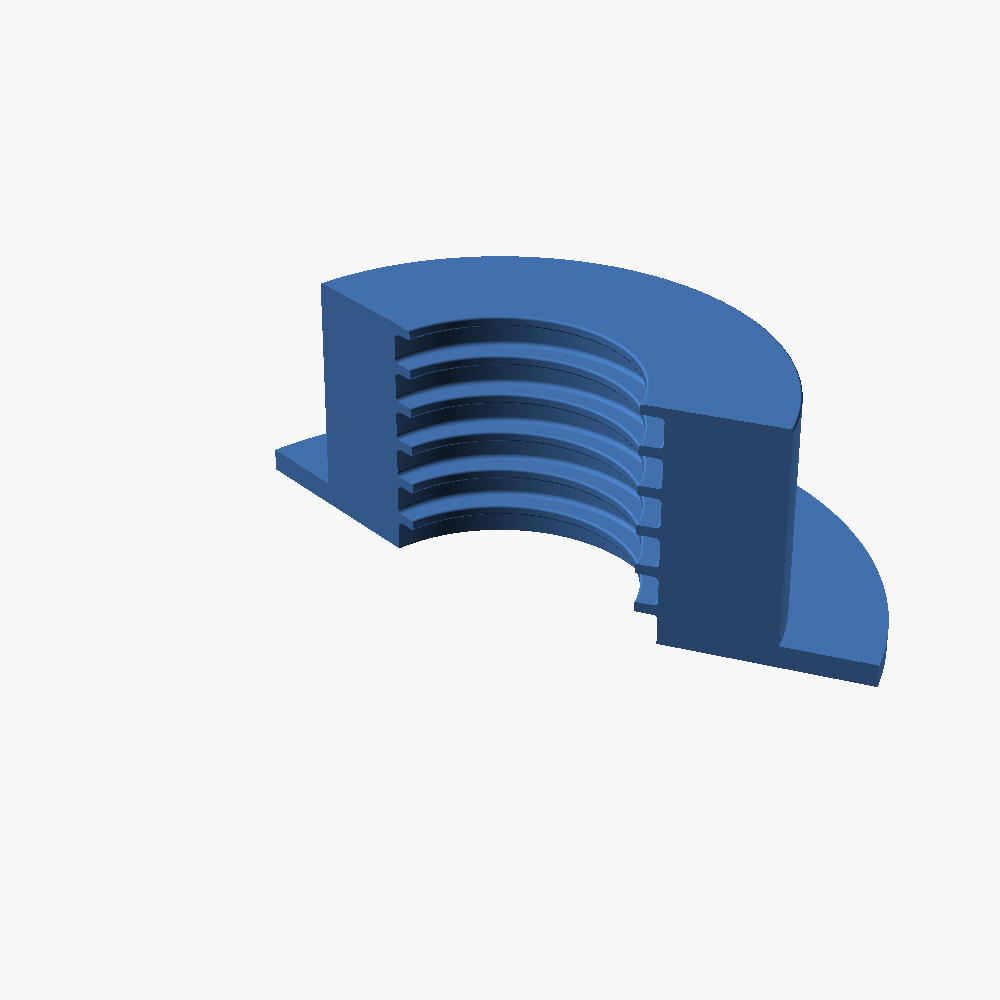
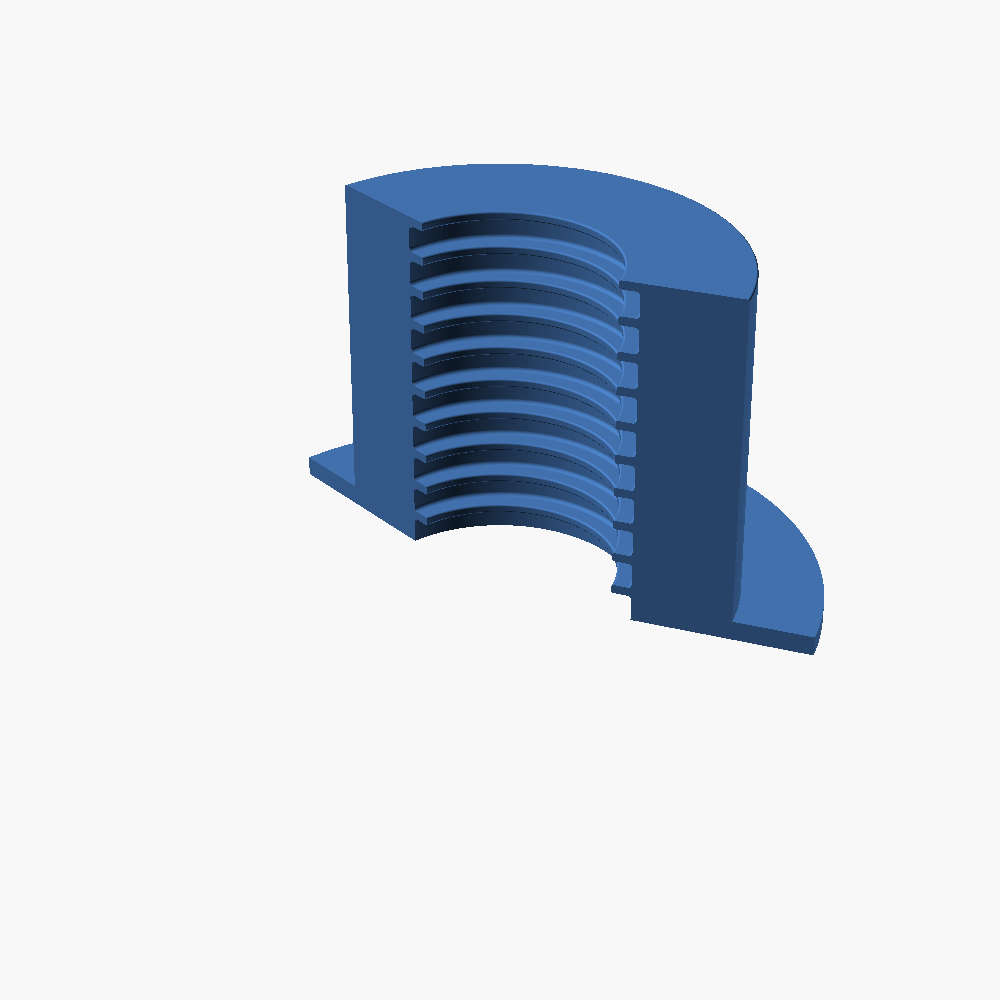
Lengthen 40mm mount presets to 10 teeth (~53 mm); refresh renders

Changed region(s): [[0.279, 0.155, 0.899, 0.682]]

diff --git a/README.md b/README.md
@@ -140,7 +140,7 @@ Customizer's preset dropdown in the GUI):
 | `conduit_32mm` | 32 | 34 | |
 | `conduit_40mm` | 40 | 42 | |
 | `conduit_40mm_fittest` | 40 | 43 | 25° fit-test sliver, measured 40 mm pipe (3 mm deep teeth, no flange) |
-| `conduit_40mm_mount` | 40 | 70 | 180° wall mount, measured 40 mm pipe; Ø70 bore, Ø94 flange (12 mm proud of the hole each side), rounded grooves |
+| `conduit_40mm_mount` | 40 | 70 | 180° wall mount, measured 40 mm pipe; Ø70 bore, Ø94 flange (12 mm proud of the hole each side), 10 teeth, rounded grooves |
 | `conduit_40mm_mount_210` | 40 | 70 | As `_mount` but 210° coverage — snaps onto the pipe; pairs with `_150` to wrap a full 360° |
 | `conduit_40mm_mount_150` | 40 | 70 | As `_mount` but 150° coverage — the 360°−210° complement of `_210` |
 | `conduit_40mm_mount_200` | 40 | 70 | As `_mount` but 200° coverage — snap-fit single-piece clamp |
@@ -153,8 +153,9 @@ preset shows the fuller pattern: a measured 40 mm conduit (crest 40, valley 34, 
 fit cheaply before committing to a full clamp.
 
 The `_mount` presets are a thick-walled wall fitting: Ø70 bore (15 mm of solid wall over
-the pipe) and a Ø94 flange that catches on the wall hole. The cross-section is the same for
-all three coverages — only the arc differs — so one dimensioned drawing covers them all:
+the pipe), a Ø94 flange that catches on the wall hole, and 10 teeth (≈53 mm long). The
+cross-section is the same for all coverages — only the arc differs — so one dimensioned
+drawing covers them all:
 
 ![40 mm mount dimensioned drawing](images/conduit_40mm_mount_dimensions.png)
 
